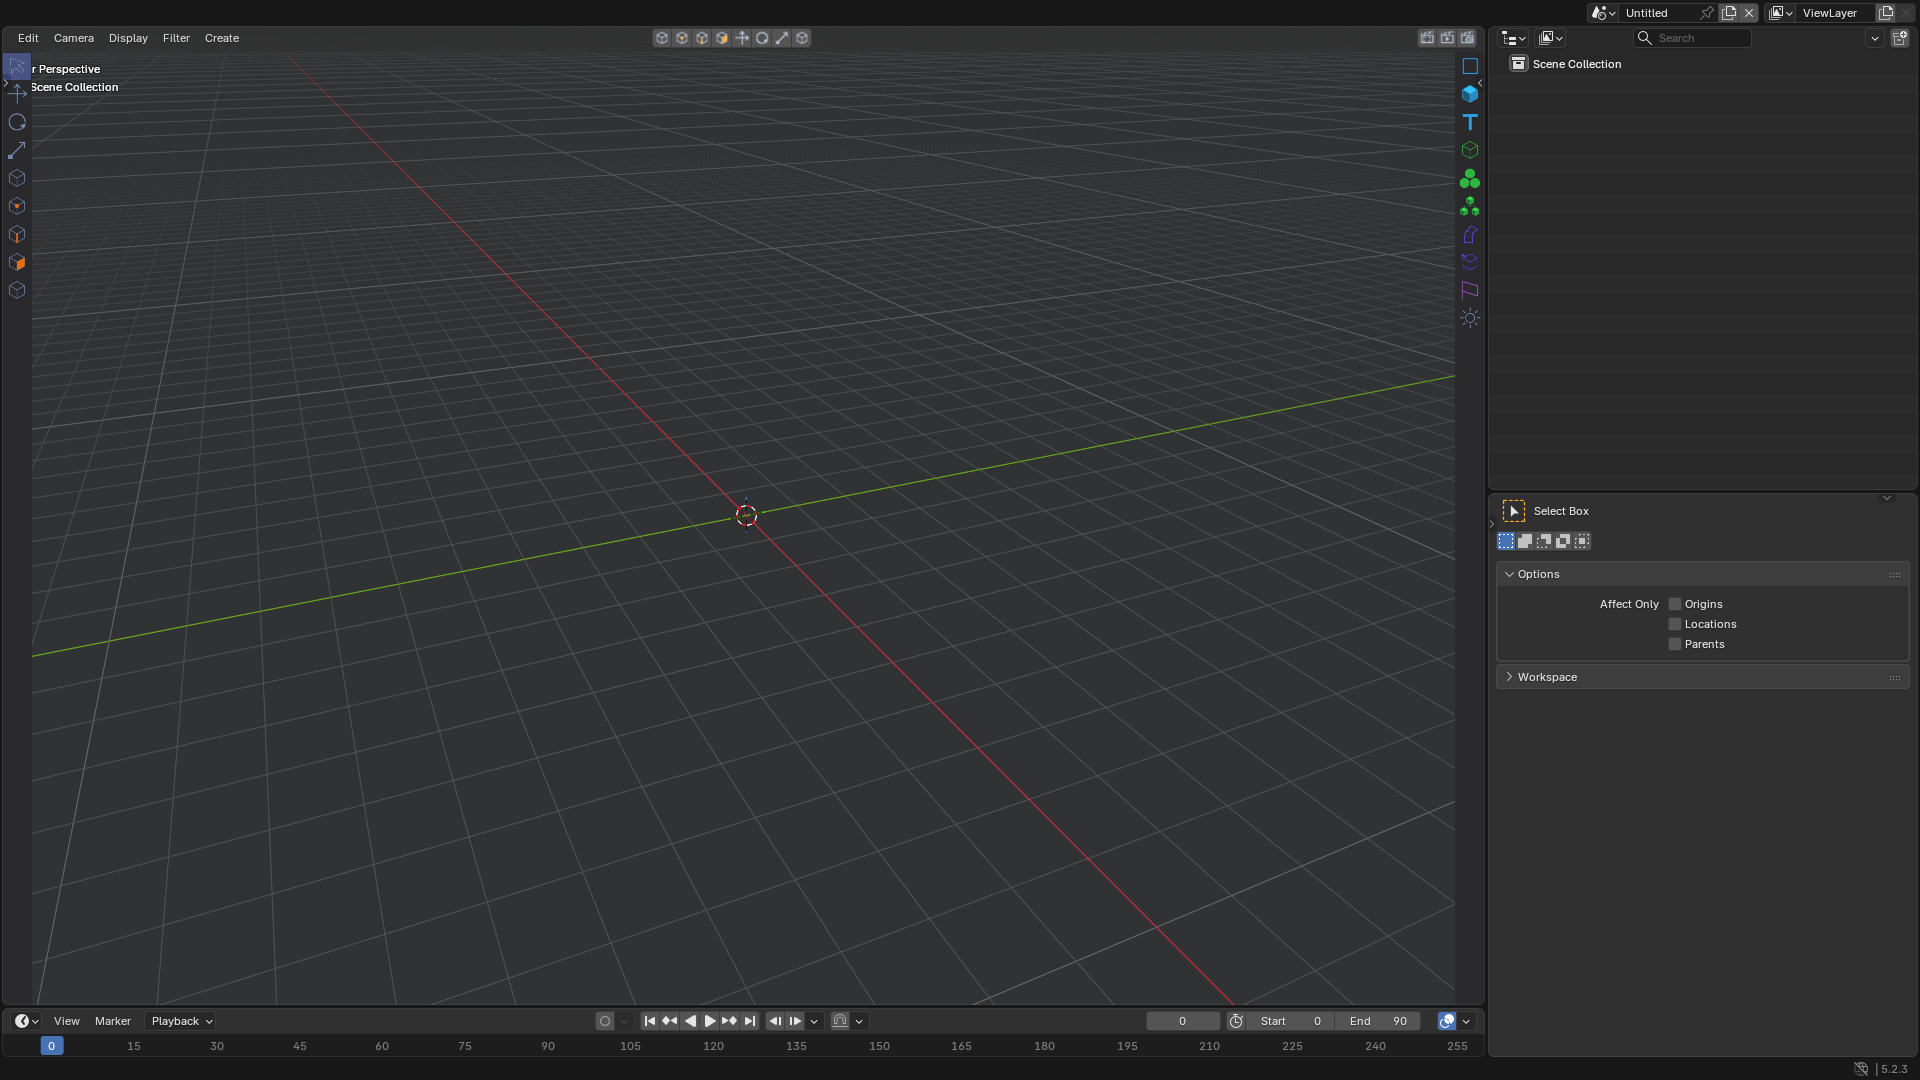
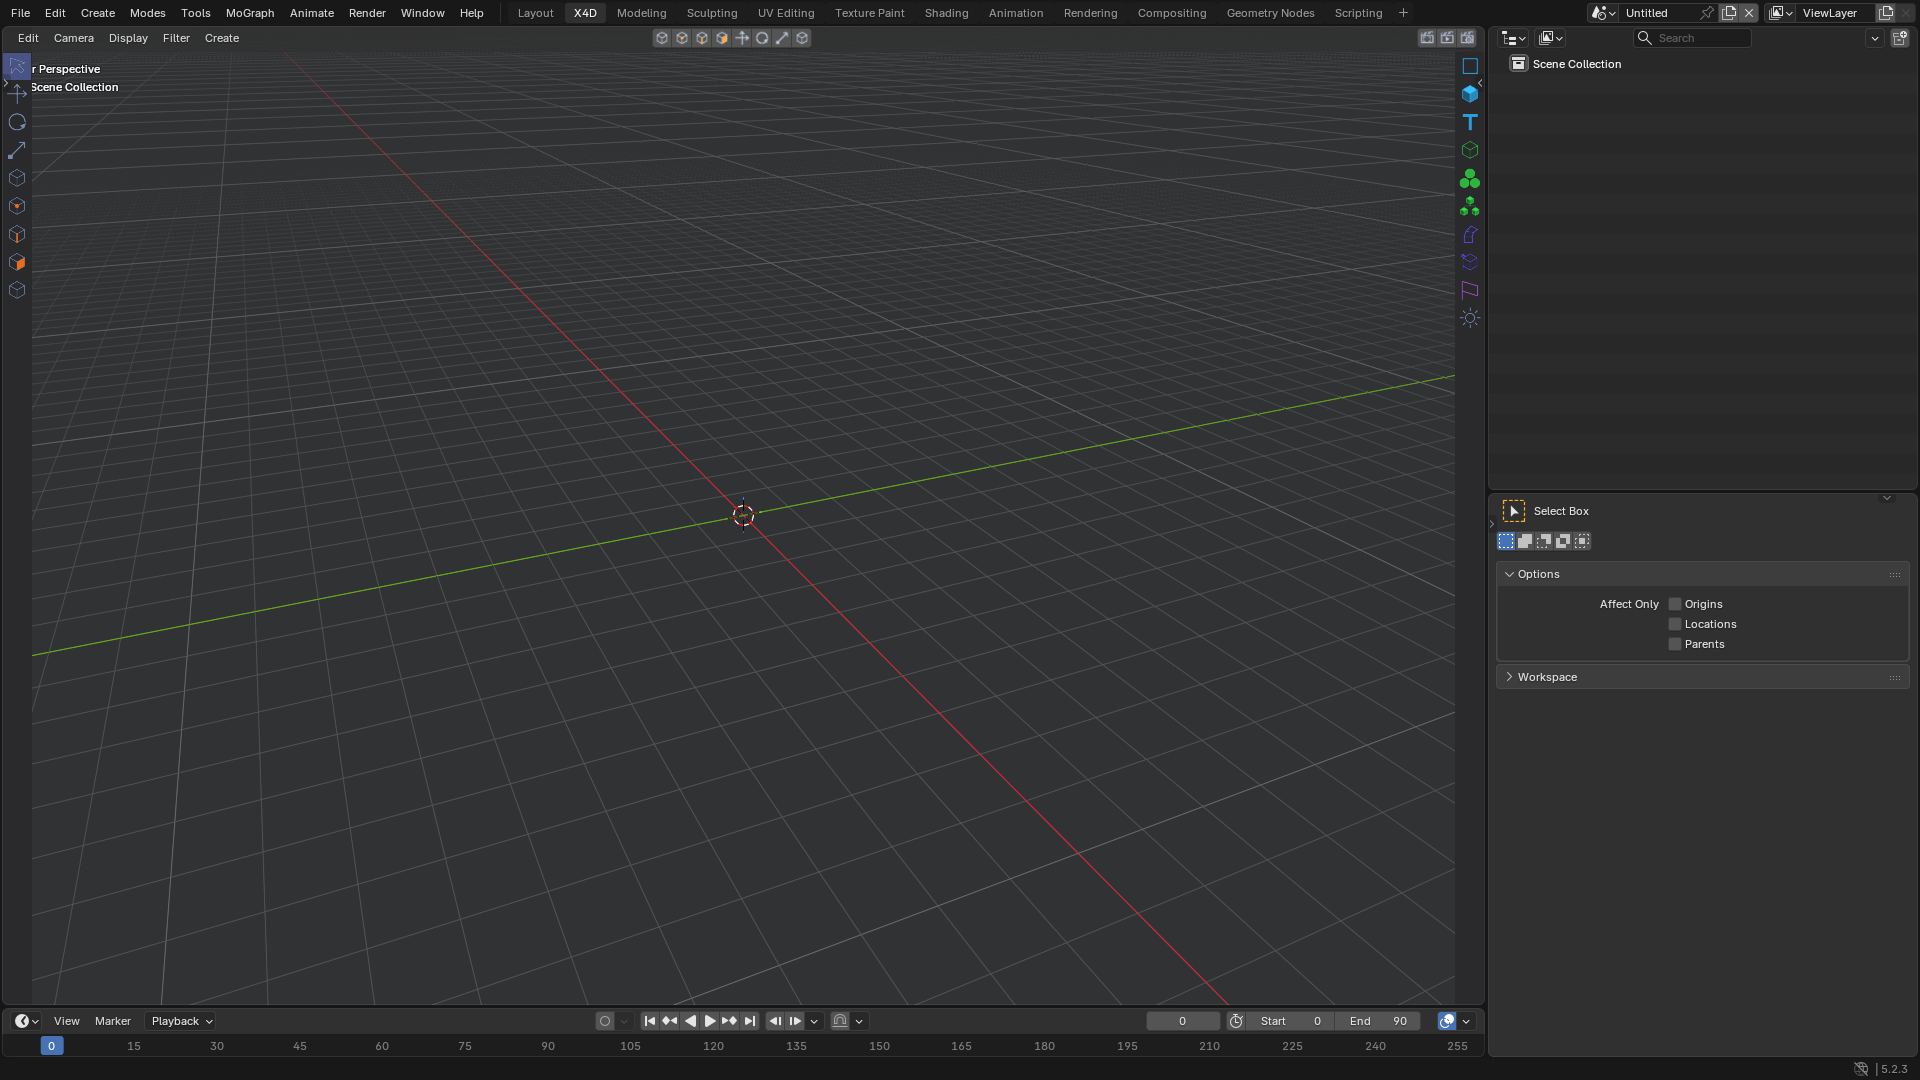
Use English screenshots and update primitives preview

diff --git a/tests/release_preview.py b/tests/release_preview.py
@@ -16,6 +16,7 @@ def capture_initial():
         assert bpy.context.workspace.name=='X4D'
         assert len(bpy.context.scene.objects)==0
         bpy.context.scene.name='Untitled'
+        bpy.ops.wm.redraw_timer(type='DRAW_WIN_SWAP',iterations=2)
         bpy.ops.screen.screenshot(filepath=os.path.join(out,'workspace.png'))
         bpy.ops.cw.primitive(kind='CUBE');bpy.context.object.cw_size=(1,1,1);bpy.context.object.name='Cube'
         bpy.ops.cw.create(kind='CLONER');cloner=bpy.context.object;cloner.name='Cloner';cloner.cw.count=(8,8,1);cloner.cw.spacing=(1.4,1.4,1.4)
@@ -40,6 +41,13 @@ def mograph():
 
 def capture_mograph():
     bpy.ops.screen.screenshot(filepath=os.path.join(out,'mograph.png'))
+    for obj in list(bpy.context.scene.objects):bpy.data.objects.remove(obj,do_unlink=True)
+    kit.selection._last.clear();kit.selection.focus()
+    bpy.app.timers.register(capture_empty,first_interval=1)
+    return None
+
+def capture_empty():
+    bpy.ops.screen.screenshot(filepath=os.path.join(out,'workspace.png'))
     print('X4D_ENGLISH_SCREENSHOTS_OK');bpy.ops.wm.quit_blender()
     return None
 bpy.app.timers.register(initial,first_interval=6)
